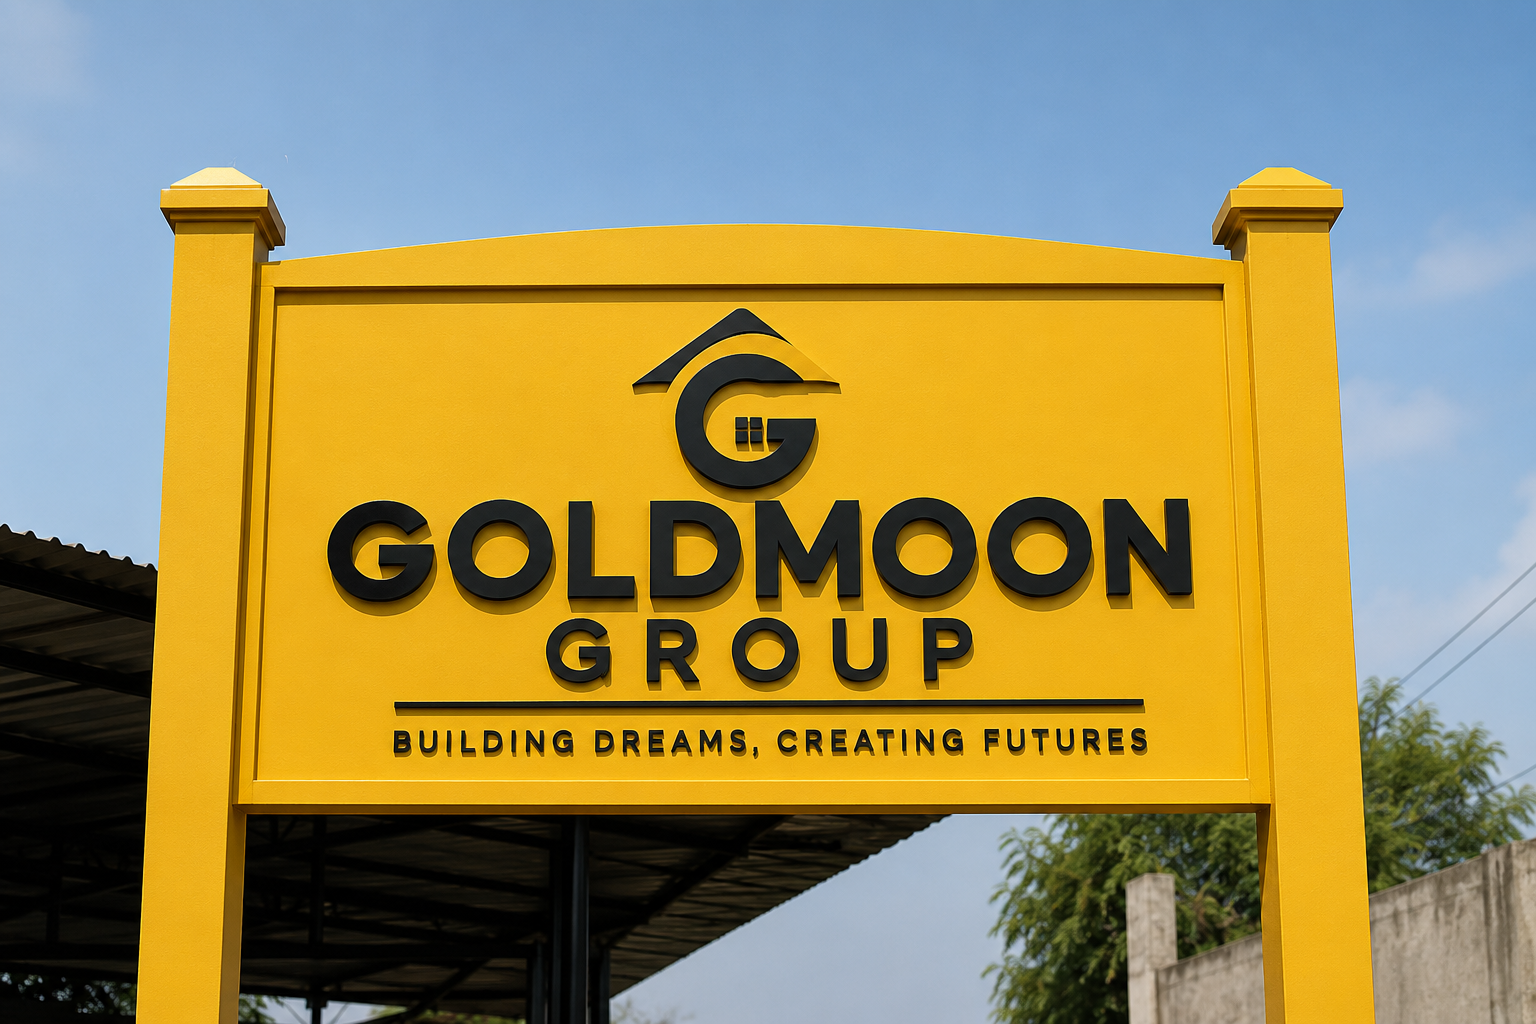
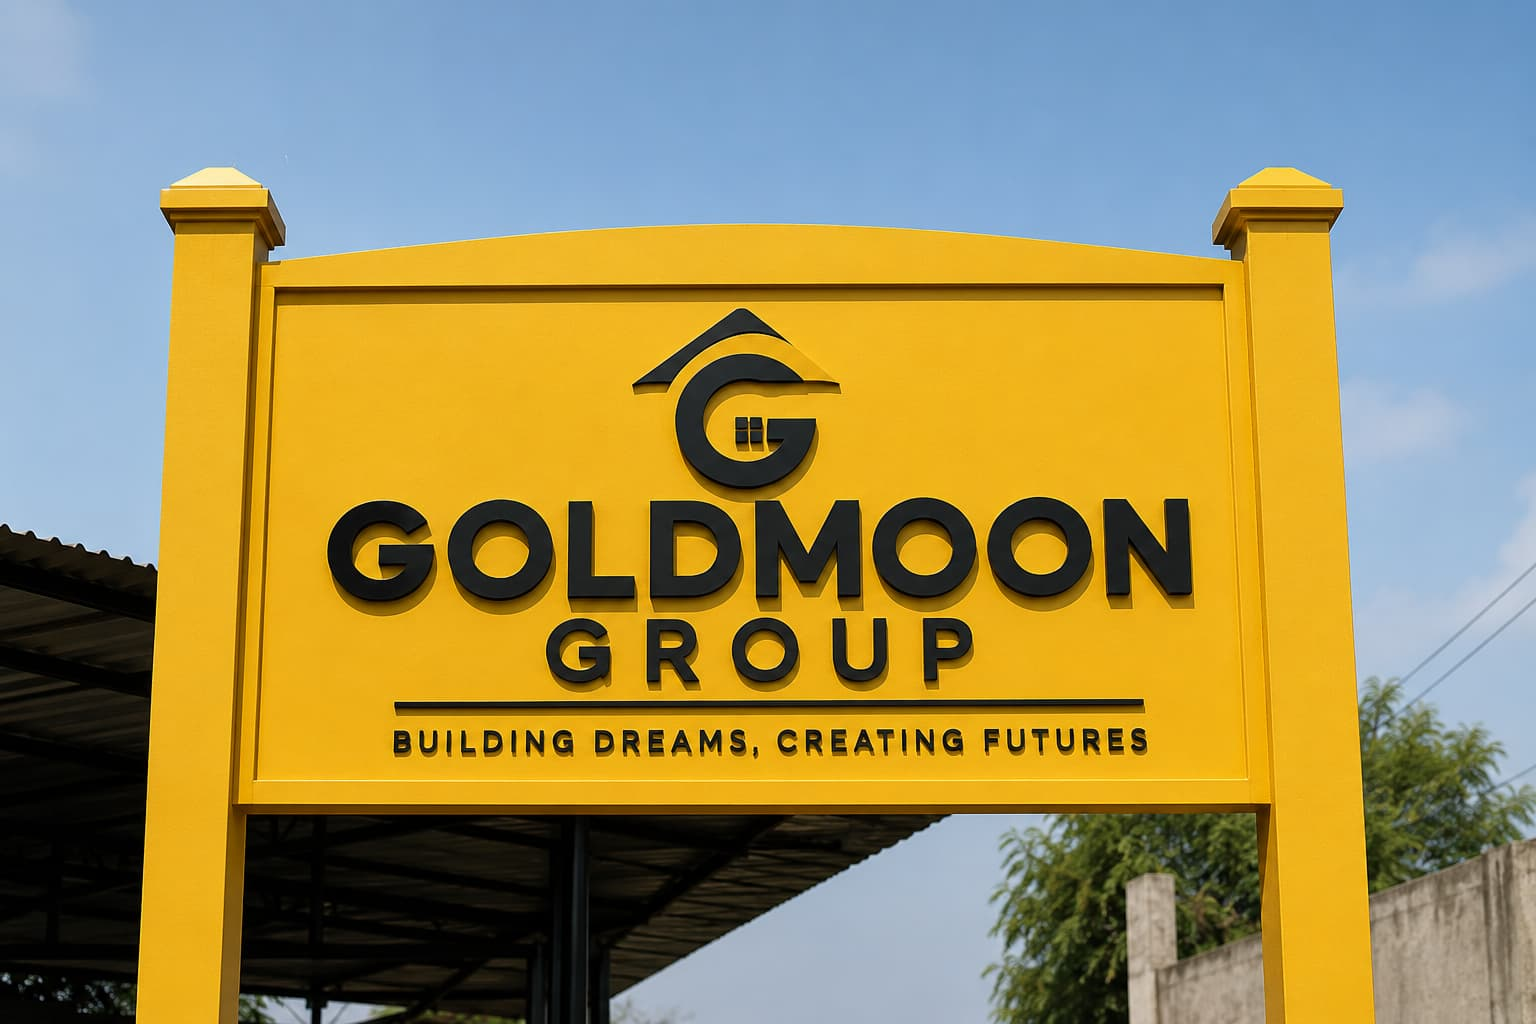
Finalize Goldmoon Group website

diff --git a/assets/js/data/projects-data.js b/assets/js/data/projects-data.js
@@ -50,36 +50,5 @@ const PROJECTS = [
         location: "Ramanathapuram , Tamil Nadu",
 
         image: "assets/images/projects/project3.jpg"
-    },
-
-    {
-        id: 4,
-
-        title: "Mosque New building",
-
-        status: "Completed",
-
-        started: "2023",
-
-        duration: "20 Months",
-
-        location: "Ramanathapuram , Tamil Nadu",
-
-        image: "assets/images/projects/project3.jpg"
-    },
-    {
-        id: 5,
-
-        title: "Mosque New building",
-
-        status: "Completed",
-
-        started: "2023",
-
-        duration: "20 Months",
-
-        location: "Ramanathapuram , Tamil Nadu",
-
-        image: "assets/images/projects/project3.jpg"
     }
 ];

diff --git a/assets/js/modules/contact.js b/assets/js/modules/contact.js
@@ -48,22 +48,6 @@ const Contact = {
 
         });
 
-    },
-
-    /*=====================================================
-                    LINK CLICKED
-    =====================================================*/
-
-    linkClicked(link){
-
-        console.log(
-
-            "Contact Link Clicked:",
-
-            link.href
-
-        );
-
     }
 
 };